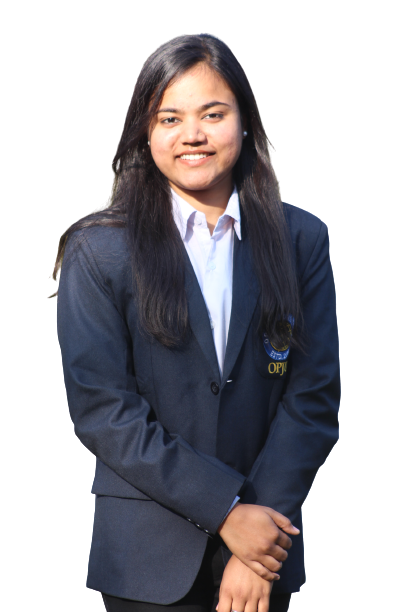
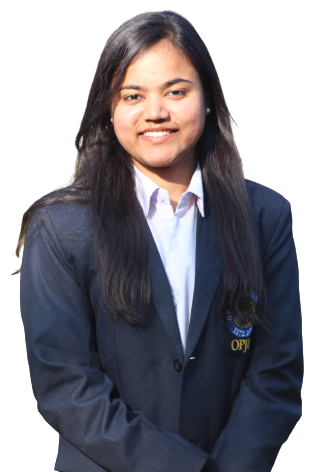
team page update

diff --git a/components/TeamCard.vue b/components/TeamCard.vue
@@ -23,7 +23,7 @@ export default {
 <style lang="scss" scoped>
 .team-card {
   width: 310px;
-  height: 380px;
+  height: 300px;
   border-radius: 3px;
   margin: 2rem 1rem 1rem 1rem;
   background: #edf2f4;
@@ -67,7 +67,7 @@ export default {
       font-family: 'Montserrat', sans-serif;
       font-weight: bolder;
       letter-spacing: 0.05em;
-      font-size: 1.6rem;
+      font-size: 1.5rem;
       text-shadow: rgb(241, 241, 241) 0px 0px 1px,
         rgba(211, 211, 211, 0.712) 0px 0px 2px;
       padding: 0 0.5rem;

diff --git a/pages/team.vue b/pages/team.vue
@@ -158,7 +158,7 @@ export default {
           team: [
             {
               name: 'Subrat Kumar Jena',
-              image: 'subratjena.png',
+              image: 'subrat.png',
               designation: 'Team Lead & Developer',
             },
             {
@@ -280,7 +280,7 @@ export default {
     padding: 2rem 0;
     .card {
       padding: 0 1.5rem;
-      margin: 5rem 1.2rem;
+      margin: 3rem 1.2rem;
 
       .card-title {
         text-align: center;
